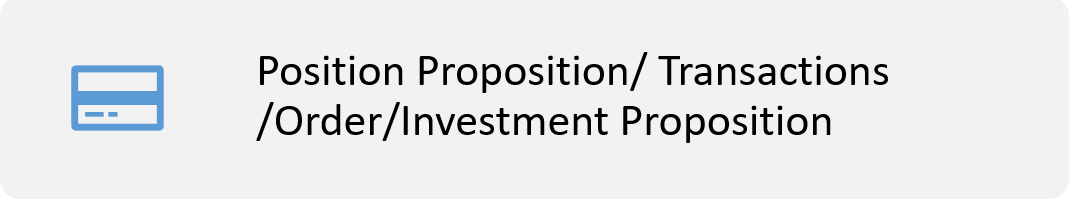
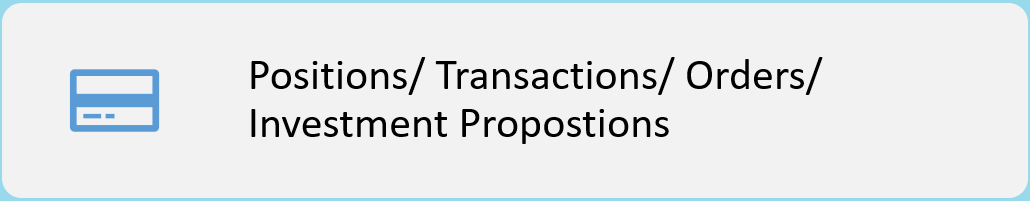
Some Fixes after BA review

diff --git a/website/sidebars.js b/website/sidebars.js
@@ -1,41 +1,10 @@
 module.exports = {
-    docs:  [
+    docs: [
         "home",
+        "summary",
         {
             type: 'category',
-            label: 'Portfolio Strategy',
-            items: [
-                "Portfolio_Strategy/Asset_Classification_Node",
-                "Portfolio_Strategy/Asset_Classification_Regime",
-                "Portfolio_Strategy/Benchmark",
-                "Portfolio_Strategy/Benchmark_Constituent",
-                "Portfolio_Strategy/Book",
-                "Portfolio_Strategy/CMA_Set",
-                "Portfolio_Strategy/CMA_Set_Hierachy",
-                "Portfolio_Strategy/Currency",
-                "Portfolio_Strategy/Currency_Identifier",
-                "Portfolio_Strategy/Currency_Identifier_Type",
-                "Portfolio_Strategy/Financial_Account",
-                "Portfolio_Strategy/Financial_Account_Type",
-                "Portfolio_Strategy/Investment_Strategy",
-                "Portfolio_Strategy/Node_CMA_Covariance",
-                "Portfolio_Strategy/Node_CMA_RR",
-                "Portfolio_Strategy/Portfolio",
-                "Portfolio_Strategy/Portfolio_Structure",
-                "Portfolio_Strategy/Portfolio_Type",
-                "Portfolio_Strategy/Position",
-                "Portfolio_Strategy/Restriction",
-                "Portfolio_Strategy/Restriction_Definition",
-                "Portfolio_Strategy/Restriction_Set",
-                "Portfolio_Strategy/Restriction_Set_Hierachy",
-                "Portfolio_Strategy/Restriction_to_Set",
-                "Portfolio_Strategy/Restriction_Type",
-                "Portfolio_Strategy/Risk_Profile"
-            ]
-        },
-        {
-            type: 'category',
-            label: 'BP People',
+            label: 'People / Partner Relationships',
             items: [
                 "BP_People/Address",
                 "BP_People/Address_Type",
@@ -74,7 +43,39 @@ module.exports = {
         },
         {
             type: 'category',
-            label: 'Instruments Classification',
+            label: 'Portfolio / Financial Account / Investment Strategy',
+            items: [
+                "Portfolio_Strategy/Asset_Classification_Node",
+                "Portfolio_Strategy/Asset_Classification_Regime",
+                "Portfolio_Strategy/Benchmark",
+                "Portfolio_Strategy/Benchmark_Constituent",
+                "Portfolio_Strategy/Book",
+                "Portfolio_Strategy/CMA_Set",
+                "Portfolio_Strategy/CMA_Set_Hierachy",
+                "Portfolio_Strategy/Currency",
+                "Portfolio_Strategy/Currency_Identifier",
+                "Portfolio_Strategy/Currency_Identifier_Type",
+                "Portfolio_Strategy/Financial_Account",
+                "Portfolio_Strategy/Financial_Account_Type",
+                "Portfolio_Strategy/Investment_Strategy",
+                "Portfolio_Strategy/Node_CMA_Covariance",
+                "Portfolio_Strategy/Node_CMA_RR",
+                "Portfolio_Strategy/Portfolio",
+                "Portfolio_Strategy/Portfolio_Structure",
+                "Portfolio_Strategy/Portfolio_Type",
+                "Portfolio_Strategy/Position",
+                "Portfolio_Strategy/Restriction",
+                "Portfolio_Strategy/Restriction_Definition",
+                "Portfolio_Strategy/Restriction_Set",
+                "Portfolio_Strategy/Restriction_Set_Hierachy",
+                "Portfolio_Strategy/Restriction_to_Set",
+                "Portfolio_Strategy/Restriction_Type",
+                "Portfolio_Strategy/Risk_Profile"
+            ]
+        },
+        {
+            type: 'category',
+            label: 'Instruments / Asset Classifications',
             items: [
                 "Instruments_Classification/Asset_Classification_Node",
                 "Instruments_Classification/Asset_Classification_Regime",
@@ -88,8 +89,8 @@ module.exports = {
             ]
         },
         {
-            type:'category',
-            label: "Proposition Order Transaction",
+            type: 'category',
+            label: "Positions / Transactions / Orders/ Investment Propositions",
             items: [
                 "Proposition_Order_Transaction/Currency",
                 "Proposition_Order_Transaction/Currency_Identifier",
@@ -111,6 +112,6 @@ module.exports = {
             ]
         }
 
-        
+
     ]
 }

diff --git a/website/src/pages/summary/BusinessRelationships.js b/website/src/pages/summary/BusinessRelationships.js
@@ -7,12 +7,11 @@ import styles from '../../css/scss/styles.module.scss';
 function BusinessRelationships() {
     return (
         <Layout>
-            <h1>Domain Group for Party/Business Relationships</h1>
+            <h1>People / Partner Relationships</h1>
             <RelationshipsSummary></RelationshipsSummary>
             <div className={styles.imgContainer}>
                 <img src="../../../static/img/business_.relationships.png" />
             </div>
-            <TableList tablesList={BusinessRelationshipsTableList}></TableList>
             <h2>Party/ Business Relationships</h2>
             <div className={styles.additionalInformation}>
                 <p>
@@ -36,6 +35,7 @@ function BusinessRelationships() {
             <div className={styles.imgContainer}>
                 <img src="../../../static/img/business_relationships_connections.png" />
             </div>
+            <TableList tablesList={BusinessRelationshipsTableList}></TableList>
         </Layout>
     );
 }

diff --git a/website/src/pages/summary/PropositionOrderTransacition.js b/website/src/pages/summary/PropositionOrderTransacition.js
@@ -7,7 +7,7 @@ import styles from '../../css/scss/styles.module.scss';
 function PropositionOrderTransactions() {
     return (
         <Layout>
-            <h1>Domain Group for Proposal, Orders and Positions</h1>
+            <h1>Positions / Transactions / Orders/ Investment Propositions</h1>
             <PropositionOrderTransactionsSummary></PropositionOrderTransactionsSummary>
             <div className={styles.imgContainer}>
                 <img src="../../../static/img/transactions_relationships_connections.png" />

diff --git a/website/src/pages/summary/BusinessRelationshipsTableList.js b/website/src/pages/summary/BusinessRelationshipsTableList.js
@@ -34,7 +34,7 @@ const BusinessRelationshipsTableList = [
     {name:"Employee_To_OE", link:`${baseUrl}docs/BP_People/Employee_To_OE`}, 
     {name:"Employee_To_OE_Type", link:`${baseUrl}docs/BP_People/Employee_To_OE_Type`}, 
     {name:"Organizational_Entity", link:`${baseUrl}docs/BP_People/Organizational_Entity`}, 
-    {name:"Language", link:`${baseUrl}docs/BP_Peopleple/Languagee`}
+    {name:"Language", link:`${baseUrl}docs/BP_People/Language`}
 ];
 
 export default BusinessRelationshipsTableList;

diff --git a/website/src/pages/summary/PotfolioStrategy.js b/website/src/pages/summary/PotfolioStrategy.js
@@ -7,7 +7,7 @@ import styles from '../../css/scss/styles.module.scss';
 function PortfolioStrategy () {
     return (
         <Layout>
-            <h1>Domain Group for Portfolio/ Investment Strategy</h1>
+            <h1>Portfolio / Financial Account / Investment Strategy</h1>
             <PortfolioStrategySummary></PortfolioStrategySummary>
             <div className={styles.imgContainer}>
                 <img src="../../../static/img/portfolio_strategy_relationship_connections.png"/>

diff --git a/website/src/pages/summary/Instruments.js b/website/src/pages/summary/Instruments.js
@@ -7,7 +7,7 @@ import styles from '../../css/scss/styles.module.scss';
 function Instruments() {
     return (
         <Layout>
-            <h1>Domain Group for Asset Classifications/Instruments</h1>
+            <h1>Instruments / Asset Classifications</h1>
             <InstrumentsSummary></InstrumentsSummary>
             <div className={styles.imgContainer}>
                 <img src="../../../static/img/instruments_relationships_connections.png"/>

diff --git a/website/docusaurus.config.js b/website/docusaurus.config.js
@@ -62,8 +62,7 @@ module.exports = {
         src: 'img/finos_wordmark_blue.svg',
       },
       items: [
-        {to: 'docs/home', label: 'Getting Started', position: 'left'},
-        {to: 'docs/help', label: 'Help', position: 'left'}
+        {to: 'docs/home', label: 'Docs', position: 'left'}
       ],
     },
 

diff --git a/website/src/css/scss/footer.scss b/website/src/css/scss/footer.scss
@@ -70,7 +70,7 @@ footer {
     }
 
     .emailContainer {
-        width: 115px;
+        width: 125px;
         margin: 0 auto 20px auto;
         a {
             color: $glue-white;

diff --git a/website/docs/summary.md b/website/docs/summary.md
@@ -1,0 +1,15 @@
+---
+id: summary
+title: Summary
+---
+
+A design principle of Glue is that any **lookup table** can have any values in it. There is no expectation or dependency elsewhere in the data model on certain values being present.
+
+
+**PII- Personally identifiable information**, is any **data** that could potentially be used to identify a particular person. Examples include a full name, Social Security number, National Insurance number, driver's license number, bank account number, passport number, and email address.
+
+Technology has expanded the scope of PII considerably. It can include an IP address, login IDs, social media posts, or digital images. Geolocation, biometric, and behavioral data can also be classified as PII.
+This broad definition of PII creates security and privacy challenges, especially when specific and stringent safeguards for it are spelled out in regulations such as the European Union’s (EU’s) **[General Data Protection Regulation (GDPR)]("http://ec.europa.eu/justice/data-protection/reform/files/regulation_oj_en.pdf")**. It has been in effect since May 25, 2018, and it impacts any company, worldwide, that processes or stores personal data of EU residents.
+
+What are the new user rights for PII?
+Documented “opt-in” consent must be given for every person (or their legal guardian). The consent must explicitly identify the data collected, what it is used for, and how long it will be kept. Further, participants can remove their consent at any time and request that their personal data be deleted (as long as they supply one of the approved reasons).

diff --git a/website/docs/home.md b/website/docs/home.md
@@ -3,8 +3,9 @@ id: home
 title: Glue Data Model
 ---
 
-[Portfolio Strategy](Portfolio_Strategy/Portfolio) <br/>
-[BP People](BP_People/Business_Partner) <br/>
-[Instruments Classification](Instruments_Classification/Instrument) <br/>
-[Proposition Order Transaction](Proposition_Order_Transaction/Investment_Proposition) <br/>
+[Summary](summary) <br/>
+[People / Partner Relationships](/summary/businessRelationships) <br/>
+[Portfolio / Financial Account / Investment Strategy](/summary/potfolioStrategy) <br/>
+[Instruments / Asset Classifications](/summary/instruments) <br/>
+[Positions / Transactions / Orders/ Investment Propositions](/summary/propositionOrderTransacition) <br/>
 
